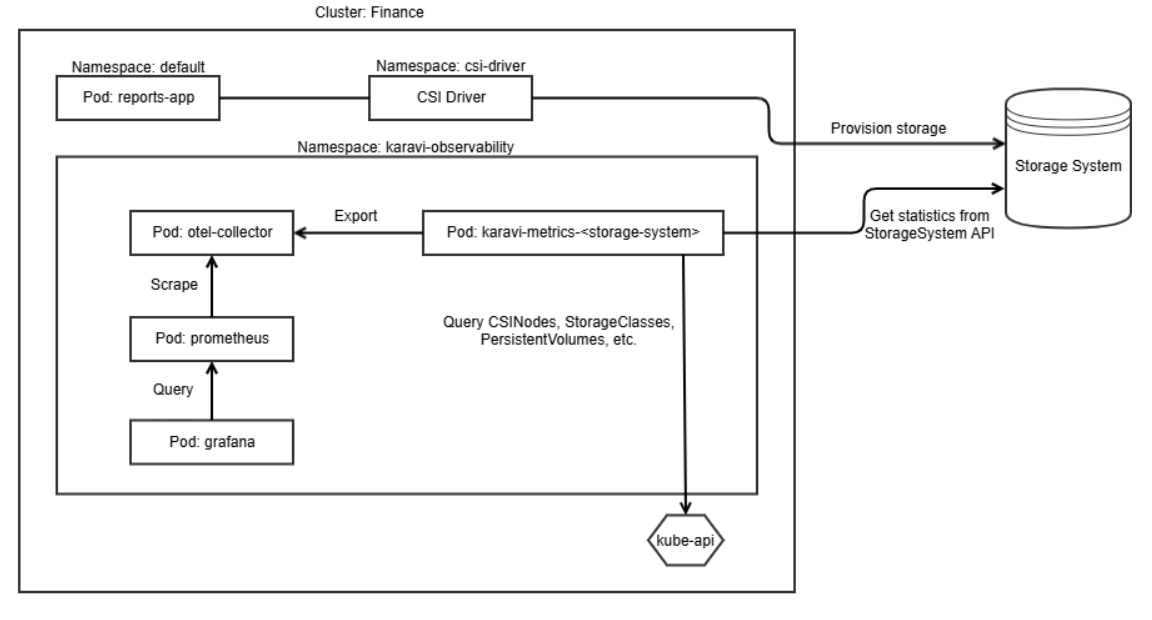
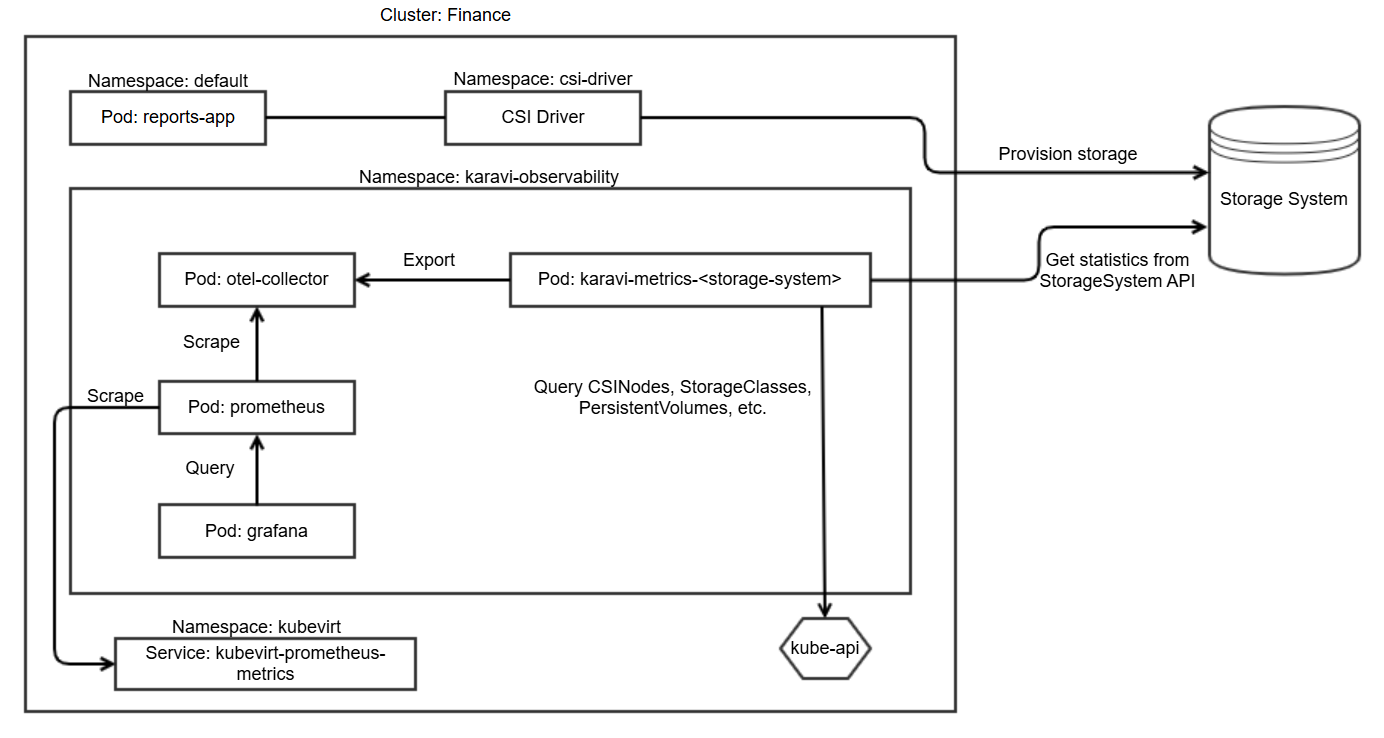
Documentation for KubeVirt VM metrics in Observability (#1703)

Changed region(s): [[0.0, 0.0, 1.0, 0.9806], [0.375, 0.4903, 0.5938, 0.5823], [0.5938, 0.6435, 0.625, 0.6742]]

diff --git a/content/docs/getting-started/installation/helm/modules/observability/_index.md b/content/docs/getting-started/installation/helm/modules/observability/_index.md
@@ -88,7 +88,7 @@ Here’s a minimal Prometheus configuration using insecure skip verify; for prop
    ```
 
    To enable scraping of Kubernetes object state metrics, set `kube-state-metrics.enabled` to `true` in the `prometheus-values.yaml` configuration file.
-
+  {{< hide class="1" >}}
    To scrape the KubeVirt metrics, include the following scrape config to the `prometheus-values.yaml` configuration file.
 
    ```yaml
@@ -115,6 +115,160 @@ Here’s a minimal Prometheus configuration using insecure skip verify; for prop
         tls_config:
           insecure_skip_verify: true
    ```
+  {{< /hide  >}}
+  {{< hide class="2" >}}
+   To scrape the KubeVirt metrics, include the following scrape config to the `prometheus-values.yaml` configuration file.
+
+   ```yaml
+      - job_name: 'kubevirt-metrics'
+        scrape_interval: 10s
+        # Kubernetes service discovery to find the kubevirt-prometheus-metrics service
+        kubernetes_sd_configs:
+          - role: endpoints
+            namespaces:
+              # Ensure this is the correct namespace where KubeVirt is installed
+              names: [KUBEVIRT-NAMESPACE]
+
+        relabel_configs:
+          - source_labels: [__meta_kubernetes_service_name]
+            regex: 'kubevirt-prometheus-metrics'
+            action: keep
+
+          - source_labels: [__meta_kubernetes_pod_ip, __meta_kubernetes_service_port_name]
+            regex: '(.+);https-metrics'
+            target_label: '__address__'
+            replacement: '$1:8443'
+
+        scheme: https
+        tls_config:
+          insecure_skip_verify: true
+   ```
+  {{< /hide  >}}
+  {{< hide class="4" >}}
+   To scrape the KubeVirt metrics, include the following scrape config to the `prometheus-values.yaml` configuration file.
+
+   ```yaml
+      - job_name: 'kubevirt-metrics'
+        scrape_interval: 10s
+        # Kubernetes service discovery to find the kubevirt-prometheus-metrics service
+        kubernetes_sd_configs:
+          - role: endpoints
+            namespaces:
+              # Ensure this is the correct namespace where KubeVirt is installed
+              names: [KUBEVIRT-NAMESPACE]
+
+        relabel_configs:
+          - source_labels: [__meta_kubernetes_service_name]
+            regex: 'kubevirt-prometheus-metrics'
+            action: keep
+
+          - source_labels: [__meta_kubernetes_pod_ip, __meta_kubernetes_service_port_name]
+            regex: '(.+);https-metrics'
+            target_label: '__address__'
+            replacement: '$1:8443'
+
+        scheme: https
+        tls_config:
+          insecure_skip_verify: true
+   ```
+  {{< /hide  >}}
+  {{< hide class="2" >}}
+   To scrape powerstore metrics using Powerstore Exporter Metrics, add the following configurations to prometheus-values.yaml. More details can be found [here](https://github.com/dell/powerstore-metrics-exporter/tree/main/templates/prometheus)
+
+   ```yaml
+      - job_name: powerstore_10.0.0.1_cluster
+          honor_timestamps: true
+          scrape_interval: 15m
+          scrape_timeout: 3m
+          metrics_path: /metrics/10.0.0.1/cluster
+          scheme: http
+          follow_redirects: true
+          static_configs:
+            - targets:
+                - 127.0.0.1:9010
+        - job_name: powerstore_10.0.0.1_port
+          honor_timestamps: true
+          scrape_interval: 5m
+          scrape_timeout: 3m
+          metrics_path: /metrics/10.0.0.1/port
+          scheme: http
+          follow_redirects: true
+          static_configs:
+            - targets:
+                - 127.0.0.1:9010
+        - job_name: powerstore_10.0.0.1_file
+          honor_timestamps: true
+          scrape_interval: 5m
+          scrape_timeout: 3m
+          metrics_path: /metrics/10.0.0.1/file
+          scheme: http
+          follow_redirects: true
+          static_configs:
+            - targets:
+                - 127.0.0.1:9010
+        - job_name: powerstore_10.0.0.1_hardware
+          honor_timestamps: true
+          scrape_interval: 10m
+          scrape_timeout: 3m
+          metrics_path: /metrics/10.0.0.1/hardware
+          scheme: http
+          follow_redirects: true
+          static_configs:
+            - targets:
+                - 127.0.0.1:9010
+        - job_name: powerstore_10.0.0.1_volume
+          honor_timestamps: true
+          scrape_interval: 5m
+          scrape_timeout: 3m
+          metrics_path: /metrics/10.0.0.1/volume
+          scheme: http
+          follow_redirects: true
+          static_configs:
+            - targets:
+                - 127.0.0.1:9010
+        - job_name: powerstore_10.0.0.1_appliance
+          honor_timestamps: true
+          scrape_interval: 5m
+          scrape_timeout: 3m
+          metrics_path: /metrics/10.0.0.1/appliance
+          scheme: http
+          follow_redirects: true
+          static_configs:
+            - targets:
+                - 127.0.0.1:9010
+        - job_name: powerstore_10.0.0.1_nas
+          honor_timestamps: true
+          scrape_interval: 5m
+          scrape_timeout: 3m
+          metrics_path: /metrics/10.0.0.1/nas
+          scheme: http
+          follow_redirects: true
+          static_configs:
+            - targets:
+                - 127.0.0.1:9010
+        - job_name: powerstore_10.0.0.1_volumeGroup
+          honor_timestamps: true
+          scrape_interval: 5m
+          scrape_timeout: 3m
+          metrics_path: /metrics/10.0.0.1/volumeGroup
+          scheme: http
+          follow_redirects: true
+          static_configs:
+            - targets:
+                - 127.0.0.1:9010
+        - job_name: powerstore_10.0.0.1_capacity
+          honor_timestamps: true
+          scrape_interval: 15m
+          scrape_timeout: 3m
+          metrics_path: /metrics/10.0.0.1/capacity
+          scheme: http
+          follow_redirects: true
+          static_configs:
+            - targets:
+                - 127.0.0.1:9010
+   ```
+   Replace 10.0.0.1 with the powerstore array IP.
+  {{< /hide >}}
 
 2. If using Rancher, create a ServiceMonitor.
 
@@ -295,6 +449,39 @@ Once Grafana is properly configured, you can import the pre-built observability 
 | [PowerFlex: I/O Performance by Provisioned Volume](https://github.com/dell/karavi-observability/blob/main/grafana/dashboards/powerflex/volume_io_metrics.json)                 | Provides visibility into the I/O performance metrics (IOPS, bandwidth, latency) by volume                                                                              |
 | [PowerFlex: Storage Pool Consumption By CSI Driver](https://github.com/dell/karavi-observability/blob/main/grafana/dashboards/powerflex/storage_consumption.json)              | Provides visibility into the total, used and available capacity for a storage class and associated underlying storage construct                                        |  
 | [CSI Driver Provisioned Volume Topology](https://github.com/dell/karavi-observability/blob/main/grafana/dashboards/topology/topology.json)                                     | Provides visibility into Dell CSI (Container Storage Interface) driver provisioned volume characteristics in Kubernetes correlated with volumes on the storage system. |
+<br>
+
+### Scalable Kubernetes Metrics for Observability and Visualization
+
+To visualize Dell CSI driver provisioned metrics from multiple clusters in a single Grafana dashboard, users can create multiple data sources by navigating to Data Sources in the left-hand menu and selecting `Add new Data Source`. Provide the exposed Prometheus URL from each cluster along with the required authentication details.
+Karavi Observability includes sample dashboards with drill-down capabilities to help kick-start a unified observability experience across multiple Kubernetes clusters.<br>
+
+Sample dashboards for KubeVirt volumes are available in Karavi Observability for each supported platform. To use these dashboards, first install KubeVirt by following the official [KubeVirt documentation](https://kubevirt.io/user-guide/cluster_admin/installation/#installing-kubevirt-on-kubernetes). Once KubeVirt pods are running, install CDI using the [CDI installation guide](https://kubevirt.io/user-guide/storage/containerized_data_importer/#containerized-data-importer). Ensure that `kube-state-metrics` is enabled and scraped by Prometheus, as these metrics are required for writing join PromQL queries that power the drill-downs in the sample Grafana dashboards. Below are the locations of the dashboards that can be imported to visualize KubeVirt metrics:
+
+
+| Dashboard | Description |
+|-----------|-------------|
+| [KubeVirt VM Metrics](https://github.com/dell/karavi-observability/blob/main/grafana/dashboards/kubevirt/kubevirt_vm_metric.json)                       | Provides the information about kubevirt volumes in the selected cluster                                                                     |
+| [PowerFlex Volume IO Metrics with kubevirt details](https://github.com/dell/karavi-observability/blob/main/grafana/dashboards/kubevirt/kubevirt_powerflex_metrics.json)                    | Provides visibility into Virtual Machine status and associated disk details, while also capturing I/O performance metrics for volumes provisioned by Dell CSI PowerFlex that are used by the VMs                                |
+
+
+In order to clone the dashboard, user can import the dashboard in Grafana, then click on `Edit` button on top right of dashboard, click on `Save as Copy` and provide appropriate title before saving it.
+
+To add custom panels to the sample dashboard, import the dashboard into Grafana and click `Edit` in the top-right corner. Then select `Add` and choose the visualization panel. User can configure the panel by writing PromQL join queries to retrieve customized metrics. For example, to visualize PVC-to-VM mapping, use the following query:
+ ```terminal
+kubevirt_vmi_info * on(vmi_pod, namespace) group_left(persistentvolumeclaim) label_replace(kube_pod_spec_volumes_persistentvolumeclaims_info, "vmi_pod", "$1", "pod", "(.*)")
+```
+This query performs a join between two metrics: kubevirt_vmi_info (providing VirtualMachineInstance details) and kube_pod_spec_volumes_persistentvolumeclaims_info (providing pod-to-PVC mapping). Using label_replace and PromQL’s on(...) group_left(...) matching, it enriches VMI data with PVC information from the pod specification. 
+
+More details on metrics exported by kubevirt can be found [here](https://kubevirt.io/monitoring/metrics.html#containerized-data-importer) and metrics for kube-state-metrics can be found [here](https://github.com/kubernetes/kube-state-metrics/tree/main/docs/metrics).
+
+
+The following sample dashboards enable users to visualize joined metrics from kube-state-metrics and natively exposed Dell storage array metrics:
+
+| Dashboard | Description |
+|-----------|-------------|
+| [Topology Dashboard with Kube State Metrics Join Queries](https://github.com/dell/karavi-observability/blob/main/grafana/dashboards/k8smetrics/topology.json)                       | Provides visibility into volumes and its topology details which are provisioned by Dell CSI (Container Storage Interface) driver using join queries on kube-state-metrics                                                                      |
+| [Kube State Metrics](https://github.com/dell/karavi-observability/blob/main/grafana/dashboards/k8smetrics/kube_state_metrics.json)                    | Provides a comprehensive overview of the state and performance of Kubernetes resources within a cluster                                |
 {{< /hide >}}
 
 {{< hide class="2" >}}
@@ -304,6 +491,40 @@ Once Grafana is properly configured, you can import the pre-built observability 
 | [PowerStore: I/O Performance by File System](https://github.com/dell/karavi-observability/blob/main/grafana/dashboards/powerstore/filesystem_io_metrics.json)                  | Provides visibility into the I/O performance metrics (IOPS, bandwidth, latency) by filesystem                                                                          |
 | [PowerStore: Array and Storage Class Consumption By CSI Driver](https://github.com/dell/karavi-observability/blob/main/grafana/dashboards/powerstore/storage_consumption.json) | Provides visibility into the total, used and available capacity for a storage class and associated underlying storage construct                                        |  
 | [CSI Driver Provisioned Volume Topology](https://github.com/dell/karavi-observability/blob/main/grafana/dashboards/topology/topology.json)                                     | Provides visibility into Dell CSI (Container Storage Interface) driver provisioned volume characteristics in Kubernetes correlated with volumes on the storage system. |
+
+
+### Scalable Kubernetes Metrics for Observability and Visualization
+
+To visualize Dell CSI driver–provisioned metrics from multiple clusters in a single Grafana dashboard, users can create multiple data sources by navigating to Data Sources in the left-hand menu and selecting `Add new Data Source`. Provide the exposed Prometheus URL from each cluster along with the required authentication details.
+Karavi Observability includes sample dashboards with drill-down capabilities to help kick-start a unified observability experience across multiple Kubernetes clusters. <br>
+
+Sample dashboards for KubeVirt volumes are available in Karavi Observability for each supported platform. To use these dashboards, first install KubeVirt by following the official [KubeVirt documentation](https://kubevirt.io/user-guide/cluster_admin/installation/#installing-kubevirt-on-kubernetes). Once KubeVirt pods are running, install CDI using the [CDI installation guide](https://kubevirt.io/user-guide/storage/containerized_data_importer/#containerized-data-importer). Ensure that `kube-state-metrics` is enabled and scraped by Prometheus, as these metrics are required for writing join PromQL queries that power the drill-downs in the sample Grafana dashboards. Below are the locations of the dashboards that can be imported to visualize KubeVirt metrics:
+
+
+| Dashboard | Description |
+|-----------|-------------|
+| [KubeVirt VM Metrics](https://github.com/dell/karavi-observability/blob/main/grafana/dashboards/kubevirt/kubevirt_vm_metric.json)                       | Provides the information about kubevirt volumes in the selected cluster                                                                     |
+| [Powerstore Volume Performance metrics for Kubevirt Workloads](https://github.com/dell/karavi-observability/blob/main/grafana/dashboards/kubevirt/kubevirt_powerstore_metrics.json)              | Provides visibility into the overall capacity of volumes provisioned by Dell CSI PowerStore driver that are consumed by Virtual Machines, along with detailed insights into storage groups and volume IOPS. Also provides a drill-down that enables users to select and analyze the performance of individual volumes.  |
+
+
+In order to clone the dashboard, user can import the dashboard in Grafana, then click on `Edit` button on top right of dashboard, click on `Save as Copy` and provide appropriate title before saving it. <br>
+
+To add custom panels to the sample dashboard, import the dashboard into Grafana and click `Edit` in the top-right corner. Then select `Add` and choose the visualization panel. User can configure the panel by writing PromQL join queries to retrieve customized metrics. For example, to visualize PVC-to-VM mapping, use the following query: <br>
+ ```terminal
+kubevirt_vmi_info * on(vmi_pod, namespace) group_left(persistentvolumeclaim) label_replace(kube_pod_spec_volumes_persistentvolumeclaims_info, "vmi_pod", "$1", "pod", "(.*)")
+```
+This query performs a join between two metrics: kubevirt_vmi_info (providing VirtualMachineInstance details) and kube_pod_spec_volumes_persistentvolumeclaims_info (providing pod-to-PVC mapping). Using label_replace and PromQL’s on(...) group_left(...) matching, it enriches VMI data with PVC information from the pod specification. <br>
+
+More details on metrics exported by kubevirt can be found [here](https://kubevirt.io/monitoring/metrics.html#containerized-data-importer) and metrics for kube-state-metrics can be found [here](https://github.com/kubernetes/kube-state-metrics/tree/main/docs/metrics). <br>
+
+The following sample dashboards enable users to visualize joined metrics from kube-state-metrics and natively exposed Dell storage array metrics:
+
+| Dashboard | Description |
+|-----------|-------------|
+| [Topology Dashboard with Kube State Metrics Join Queries](https://github.com/dell/karavi-observability/blob/main/grafana/dashboards/k8smetrics/topology.json)                       | Provides visibility into volumes and its topology details which are provisioned by Dell CSI (Container Storage Interface) driver using join queries on kube-state-metrics                                                                      |
+| [Kube State Metrics](https://github.com/dell/karavi-observability/blob/main/grafana/dashboards/k8smetrics/kube_state_metrics.json)                    | Provides a comprehensive overview of the state and performance of Kubernetes resources within a cluster                                |
+| [Volume Performance metrics for Powerstore](https://github.com/dell/karavi-observability/blob/main/grafana/dashboards/k8smetrics/ksm_powerstore_metrics_exporter.json)                    | Provides an insight on the performance of volumes provisioned by Dell CSI powerstore driver. Also provides a drill-down that enables users to select and analyze the performance of individual volumes                                |
+
 {{< /hide >}}
 
 {{< hide class="3" >}}
@@ -313,6 +534,19 @@ Once Grafana is properly configured, you can import the pre-built observability 
 | [PowerScale: Capacity by Cluster](https://github.com/dell/karavi-observability/blob/main/grafana/dashboards/powerscale/cluster_capacity.json)                                  | Provides visibility into the total, used, available capacity and directory quota capacity by cluster                                                                   |
 | [PowerScale: Capacity by Quota](https://github.com/dell/karavi-observability/blob/main/grafana/dashboards/powerscale/volume_capacity.json)                                     | Provides visibility into the subscribed, remaining capacity and usage by quota                                                                                         |  
 | [CSI Driver Provisioned Volume Topology](https://github.com/dell/karavi-observability/blob/main/grafana/dashboards/topology/topology.json)                                     | Provides visibility into Dell CSI (Container Storage Interface) driver provisioned volume characteristics in Kubernetes correlated with volumes on the storage system. |
+<br>
+
+### Scalable Kubernetes Metrics for Observability and Visualization
+
+To visualize Dell CSI driver–provisioned metrics from multiple clusters in a single Grafana dashboard, users can create multiple data sources by navigating to Data Sources in the left-hand menu and selecting `Add new Data Source`. Provide the exposed Prometheus URL from each cluster along with the required authentication details.
+Karavi Observability includes sample dashboards with drill-down capabilities to help kick-start a unified observability experience across multiple Kubernetes clusters.<br>
+
+The following sample dashboards enable users to visualize joined metrics from kube-state-metrics and natively exposed Dell storage array metrics:<br>
+
+| Dashboard | Description |
+|-----------|-------------|
+| [Topology Dashboard with Kube State Metrics Join Queries](https://github.com/dell/karavi-observability/blob/main/grafana/dashboards/k8smetrics/topology.json)                       | Provides visibility into volumes and its topology details which are provisioned by Dell CSI (Container Storage Interface) driver using join queries on kube-state-metrics                                                                      |
+| [Kube State Metrics](https://github.com/dell/karavi-observability/blob/main/grafana/dashboards/k8smetrics/kube_state_metrics.json)                    | Provides a comprehensive overview of the state and performance of Kubernetes resources within a cluster                                |
 {{< /hide >}}
 
 {{< hide class="4" >}}
@@ -321,7 +555,40 @@ Once Grafana is properly configured, you can import the pre-built observability 
 | [PowerMax: PowerMax Capacity](https://github.com/dell/karavi-observability/blob/main/grafana/dashboards/powermax/storage_consumption.json)                                    | Provides visibility into the subscribed, used, available capacity for a storage class and associated underlying storage construct                                      |
 | [PowerMax: PowerMax Performance](https://github.com/dell/karavi-observability/blob/main/grafana/dashboards/powermax/performance.json)                                         | Provides visibility into the I/O performance metrics (IOPS, bandwidth) by storage group and volume                                                                     |  
 | [CSI Driver Provisioned Volume Topology](https://github.com/dell/karavi-observability/blob/main/grafana/dashboards/topology/topology.json)                                     | Provides visibility into Dell CSI (Container Storage Interface) driver provisioned volume characteristics in Kubernetes correlated with volumes on the storage system. |
+
+
+### Scalable Kubernetes Metrics for Observability and Visualization
+
+To visualize Dell CSI driver–provisioned metrics from multiple clusters in a single Grafana dashboard, users can create multiple data sources by navigating to Data Sources in the left-hand menu and selecting `Add new Data Source`. Provide the exposed Prometheus URL from each cluster along with the required authentication details.
+Karavi Observability includes sample dashboards with drill-down capabilities to help kick-start a unified observability experience across multiple Kubernetes clusters.<br>
+
+Sample dashboards for KubeVirt volumes are available in Karavi Observability for each supported platform. To use these dashboards, first install KubeVirt by following the official [KubeVirt documentation](https://kubevirt.io/user-guide/cluster_admin/installation/#installing-kubevirt-on-kubernetes). Once KubeVirt pods are running, install CDI using the [CDI installation guide](https://kubevirt.io/user-guide/storage/containerized_data_importer/#containerized-data-importer). Ensure that `kube-state-metrics` is enabled and scraped by Prometheus, as these metrics are required for writing join PromQL queries that power the drill-downs in the sample Grafana dashboards. Below are the locations of the dashboards that can be imported to visualize KubeVirt metrics:<br>
+
+| Dashboard | Description |
+|-----------|-------------|
+| [KubeVirt VM Metrics](https://github.com/dell/karavi-observability/blob/main/grafana/dashboards/kubevirt/kubevirt_vm_metric.json)                       | Provides the information about kubevirt volumes in the selected cluster                                                                     |
+| [PowerMax Performance Metrics for Kubevirt Loads](https://github.com/dell/karavi-observability/blob/main/grafana/dashboards/kubevirt/kubevirt_powermax_metrics.json)                     | Provides visibility into the summary of capacity of volumes provisioned by Dell CSI PowerMax driver that are consumed by Virtual Machines. Also, it captures the storage group and volume IOPs. Also provides a drill-down that enables users to select and analyze the performance of individual volumes                     |
+<br>
+
+In order to clone the dashboard, user can import the dashboard in Grafana, then click on `Edit` button on top right of dashboard, click on `Save as Copy` and provide appropriate title before saving it.<br>
+
+To add custom panels to the sample dashboard, import the dashboard into Grafana and click `Edit` in the top-right corner. Then select `Add` and choose the visualization panel. User can configure the panel by writing PromQL join queries to retrieve customized metrics. For example, to visualize PVC-to-VM mapping, use the following query:<br>
+ ```terminal
+kubevirt_vmi_info * on(vmi_pod, namespace) group_left(persistentvolumeclaim) label_replace(kube_pod_spec_volumes_persistentvolumeclaims_info, "vmi_pod", "$1", "pod", "(.*)")
+```
+This query performs a join between two metrics: kubevirt_vmi_info (providing VirtualMachineInstance details) and kube_pod_spec_volumes_persistentvolumeclaims_info (providing pod-to-PVC mapping). Using label_replace and PromQL’s on(...) group_left(...) matching, it enriches VMI data with PVC information from the pod specification. 
+<br>
+
+More details on metrics exported by kubevirt can be found [here](https://kubevirt.io/monitoring/metrics.html#containerized-data-importer) and metrics for kube-state-metrics can be found [here](https://github.com/kubernetes/kube-state-metrics/tree/main/docs/metrics).<br>
+
+The following sample dashboards enable users to visualize joined metrics from kube-state-metrics and natively exposed Dell storage array metrics:
+
+| Dashboard | Description |
+|-----------|-------------|
+| [Topology Dashboard with Kube State Metrics Join Queries](https://github.com/dell/karavi-observability/blob/main/grafana/dashboards/k8smetrics/topology.json)                       | Provides visibility into volumes and its topology details which are provisioned by Dell CSI (Container Storage Interface) driver using join queries on kube-state-metrics                                                                      |
+| [Kube State Metrics](https://github.com/dell/karavi-observability/blob/main/grafana/dashboards/k8smetrics/kube_state_metrics.json)                    | Provides a comprehensive overview of the state and performance of Kubernetes resources within a cluster                                |
 {{< /hide >}}
+
 
 ## Dynamic Configuration
 

diff --git a/content/docs/getting-started/installation/operator/openshift_modules/observability.md b/content/docs/getting-started/installation/operator/openshift_modules/observability.md
@@ -109,14 +109,51 @@ description: >
 5. Verify the PowerFlex metrics are visible in the OpenShift Console.
 
    On the OpenShift Console, navigate to Observer and then Metrics, search for PowerFlex metrics.
+
+### Installing OpenShift Virtualization and Accessing KubeVirt Metrics
+
+User can follow the official guide to install [Openshift Virtualization](https://docs.redhat.com/en/documentation/openshift_container_platform/4.19/html/virtualization/installing#installing-virt-operator_installing-virt) in OCP cluster. Once installed, OpenShift Virtualization automatically creates the ServiceMonitor required by Prometheus to scrape KubeVirt metrics.
+
+On the OpenShift Console, navigate to Observer and then Metrics, search for kubevirt metrics. 
+User can use PromQL join queries to correlate KubeVirt metrics with Dell CSI storage metrics for advanced insights. For example, for each VM disk, find its allocated size of the underlying PowerFlex volume, using the following query:
+ 
+
+ ```bash
+ label_replace(kubevirt_vm_disk_allocated_size_bytes, "Namespace", "$1", "namespace", "(.*)") * on(persistentvolumeclaim, Namespace) group_left(PersistentVolumeName) label_replace(powerflex_volume_read_bw_megabytes_per_second, "persistentvolumeclaim", "$1", "PersistentVolumeClaimName", "(.*)")
+ ```
+
 {{< /hide >}}
 {{< hide class="3" >}}
 5. Verify the PowerMax metrics are visible in the OpenShift Console.
 
    On the OpenShift Console, navigate to Observer and then Metrics, search for PowerMax metrics.
+
+### Installing OpenShift Virtualization and Accessing KubeVirt Metrics
+
+User can follow the official guide to install [Openshift Virtualization](https://docs.redhat.com/en/documentation/openshift_container_platform/4.19/html/virtualization/installing#installing-virt-operator_installing-virt) in OCP cluster. Once installed, OpenShift Virtualization automatically creates the ServiceMonitor required by Prometheus to scrape KubeVirt metrics.
+
+On the OpenShift Console, navigate to Observer and then Metrics, search for kubevirt metrics. 
+User can use PromQL join queries to correlate KubeVirt metrics with Dell CSI storage metrics for advanced insights. For example, for each VM disk, find its allocated size of the underlying PowerMax volume, using the following query:
+ 
+
+ ```bash
+ label_replace(kubevirt_vm_disk_allocated_size_bytes, "Namespace", "$1", "namespace", "(.*)") * on(persistentvolumeclaim, Namespace) group_left(PersistentVolumeName) label_replace(powermax_volume_read_bw_megabytes_per_second, "persistentvolumeclaim", "$1", "PersistentVolumeClaimName", "(.*)")
+ ```
 {{< /hide >}}
 {{< hide class="4" >}}
 5. Verify the PowerStore metrics are visible in the OpenShift Console.
 
    On the OpenShift Console, navigate to Observer and then Metrics, search for PowerStore metrics.
+
+### Installing OpenShift Virtualization and Accessing KubeVirt Metrics
+
+User can follow the official guide to install [Openshift Virtualization](https://docs.redhat.com/en/documentation/openshift_container_platform/4.19/html/virtualization/installing#installing-virt-operator_installing-virt) in OCP cluster. Once installed, OpenShift Virtualization automatically creates the ServiceMonitor required by Prometheus to scrape KubeVirt metrics.
+
+On the OpenShift Console, navigate to Observer and then Metrics, search for kubevirt metrics. 
+User can use PromQL join queries to correlate KubeVirt metrics with Dell CSI storage metrics for advanced insights. For example, for each VM disk, find its allocated size of the underlying PowerStore volume, using the following query:
+ 
+
+ ```bash
+ label_replace(kubevirt_vm_disk_allocated_size_bytes, "Namespace", "$1", "namespace", "(.*)") * on(persistentvolumeclaim, Namespace) group_left(PersistentVolumeName) label_replace(powerstore_volume_read_bw_megabytes_per_second, "persistentvolumeclaim", "$1", "PersistentVolumeClaimName", "(.*)")
+ ```
 {{< /hide >}}
